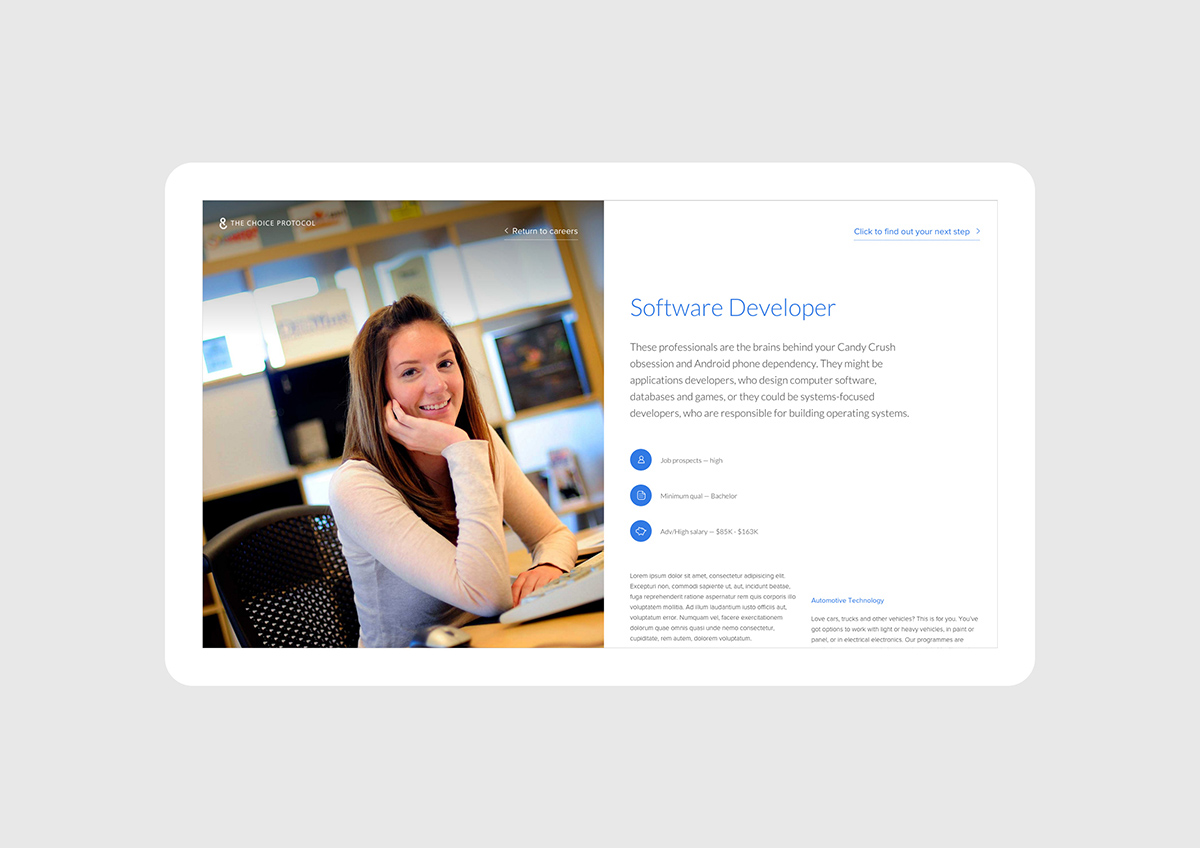
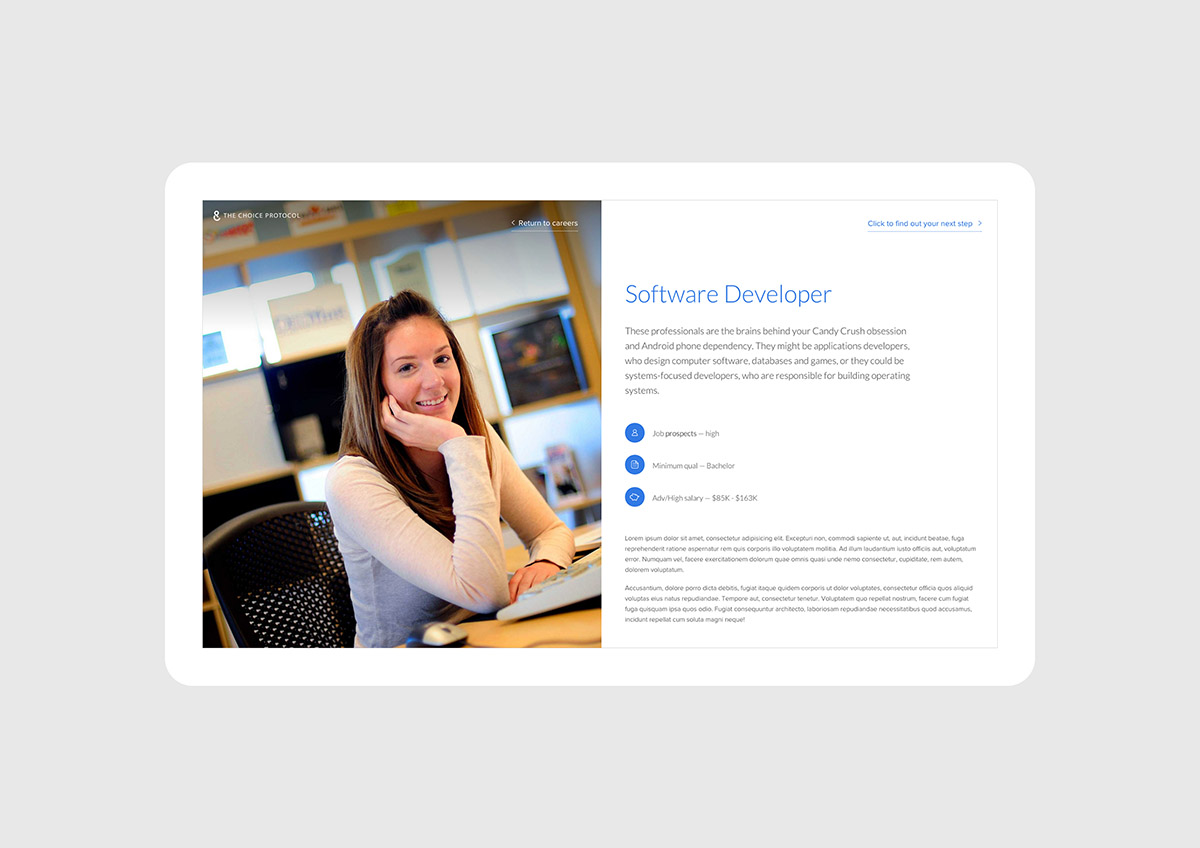
a

Changed region(s): [[0.1542, 0.2146, 0.8325, 0.7665], [0.7092, 0.2453, 0.8325, 0.2759]]

diff --git a/src/components/projects/projects.scss b/src/components/projects/projects.scss
@@ -35,15 +35,42 @@
                     margin-bottom: 10px;
                 }
             }
-            p {
-                font-weight: 100;
+
+            .credits {
                 position: absolute;
                 bottom: 0;
                 left: 0;
                 padding-bottom: 10vh;
-                font-size: 14px;
+                
+                ul {
+                    margin-top: 20px;
+                  //  display:none;
+
+                    li{
+
+                            border-bottom: 1px dotted #CACACA;
+                            padding:10px 0;
+
+                    }
+
+                }
+               p,li, a,.see {
+                font-weight: 100;          
                 line-height: 1.6em;
+                font-size: 14px;
+
+                .plane {
+                    font-size: 19px;
+                    left: 8px;
+                    position: relative;
+                    opacity:0.8;
+                    top: 1px;
+                }
             }
+
+
+            }
+            
         }
     }
     .media-container {

diff --git a/src/components/projects/projects.js b/src/components/projects/projects.js
@@ -239,7 +239,16 @@ export default class projects extends React.Component {
 
           <div className="descriptionInner">
                 <h2 key={'h2'} dangerouslySetInnerHTML={{__html: newProject[0].title}} /> 
-                <p  key={'p'} dangerouslySetInnerHTML={{__html: newProject[0].description}} /> 
+                
+
+                <div className="credits">
+                    <p  key={'p'} dangerouslySetInnerHTML={{__html: newProject[0].description}} /> 
+                      <ul>
+                            <li>Agency: Designworks</li>
+                            <li>Year: 2015</li>
+                            <li><a href="#"><span className="see">See Demo </span><span className="plane">✈</span></a></li>
+                      </ul>
+                </div>
            </div>       
         
         </div> 

diff --git a/src/components/variables.scss b/src/components/variables.scss
@@ -7,7 +7,7 @@ $brand-color: #000;
 
 /*font*/
 $font-family-base: 'Helvetica', sans-serif;
-$font-size: 16px;
+$font-size: 14px;
 
 /*media queries*/
 $screen-sm-min: 768px;
